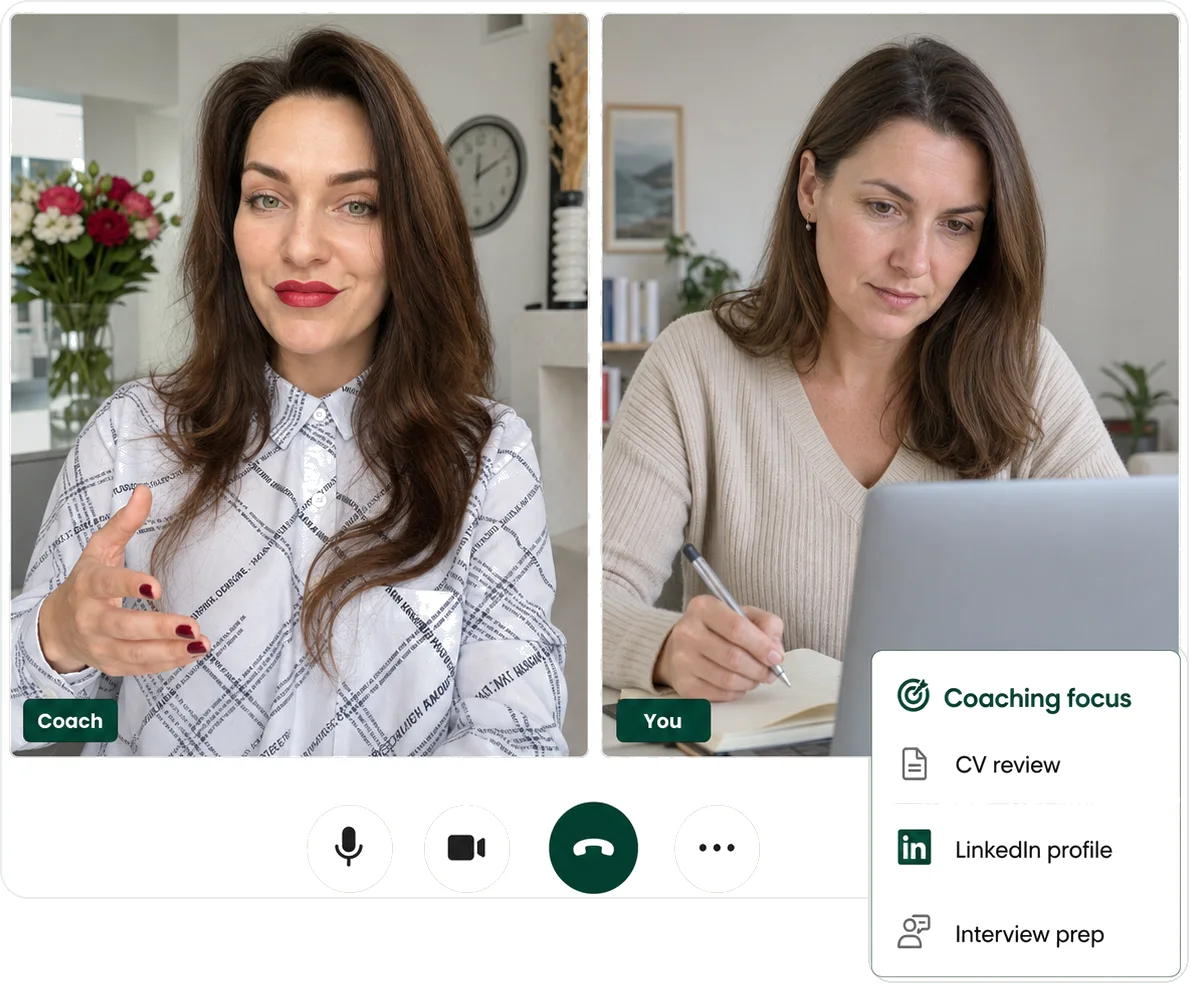
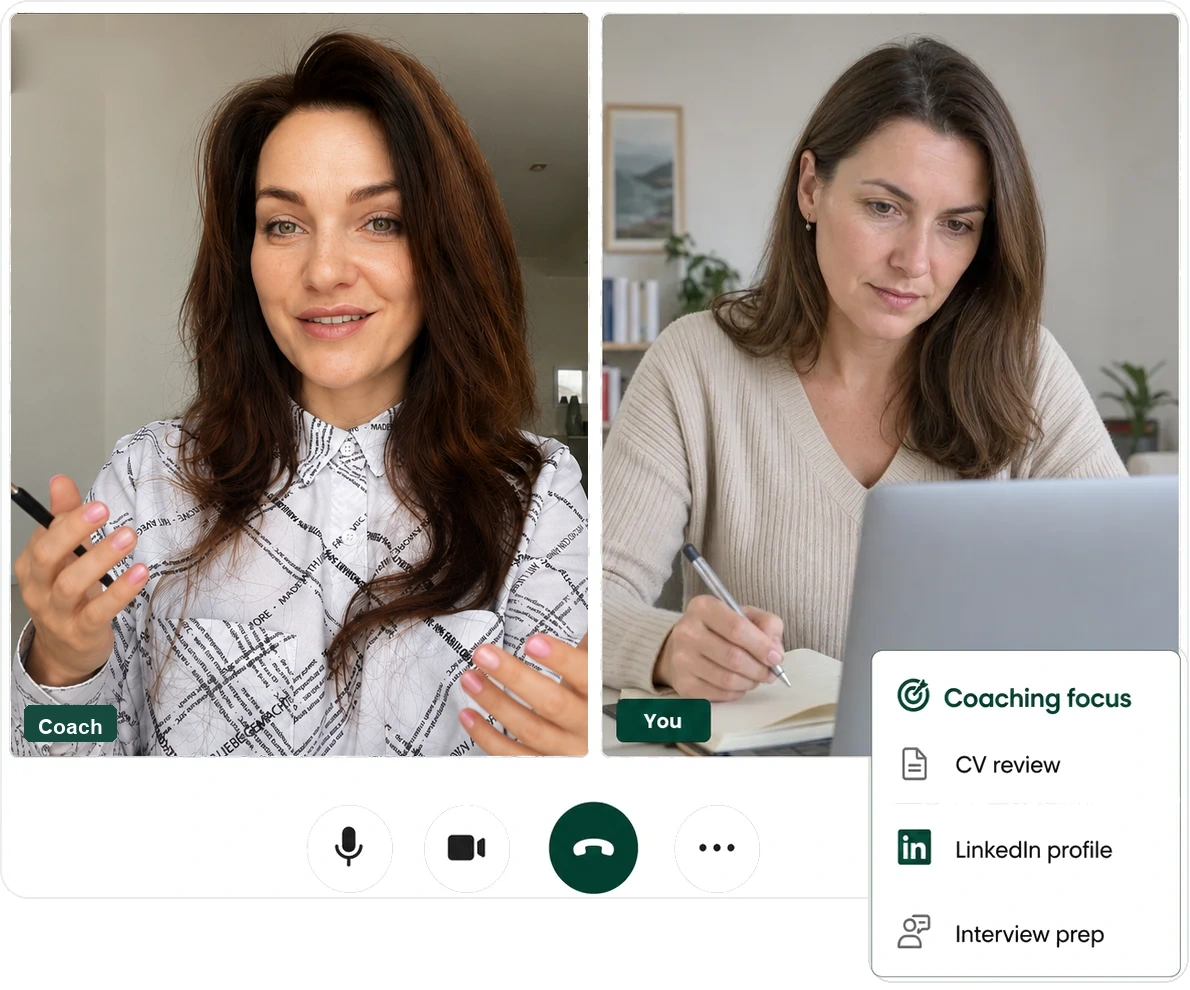
Update coaching hero image

Changed region(s): [[0.0, 0.0, 0.4975, 0.7879]]

diff --git a/app/intro-call/page.tsx b/app/intro-call/page.tsx
@@ -42,7 +42,7 @@ export const metadata: Metadata = {
     description: pageDescription,
     images: [
       {
-        url: absoluteUrl("/coaching-programs/remote-coaching-video-call-anastasia.webp"),
+        url: absoluteUrl("/coaching-programs/remote-coaching-video-call-anastasia-hero-v6.webp"),
         width: 1024,
         height: 1024,
         alt: "Remote job coaching intro call with Anastasia",
@@ -54,7 +54,7 @@ export const metadata: Metadata = {
     title: `${pageTitle} | RemotelyTalents Academy`,
     description: pageDescription,
     images: [
-      absoluteUrl("/coaching-programs/remote-coaching-video-call-anastasia.webp"),
+      absoluteUrl("/coaching-programs/remote-coaching-video-call-anastasia-hero-v6.webp"),
     ],
   },
 };

diff --git a/app/coaching-programs/page.tsx b/app/coaching-programs/page.tsx
@@ -9,7 +9,7 @@ const pageDescription =
   "Get structured remote job coaching with expert support on your positioning, CV, LinkedIn, applications, interviews, and remote job search strategy.";
 const pageUrl = absoluteUrl("/coaching-programs");
 const socialImage = absoluteUrl(
-  "/coaching-programs/remote-coaching-video-call-anastasia.webp",
+  "/coaching-programs/remote-coaching-video-call-anastasia-hero-v6.webp",
 );
 const organizationSchema = {
   "@type": "Organization",
